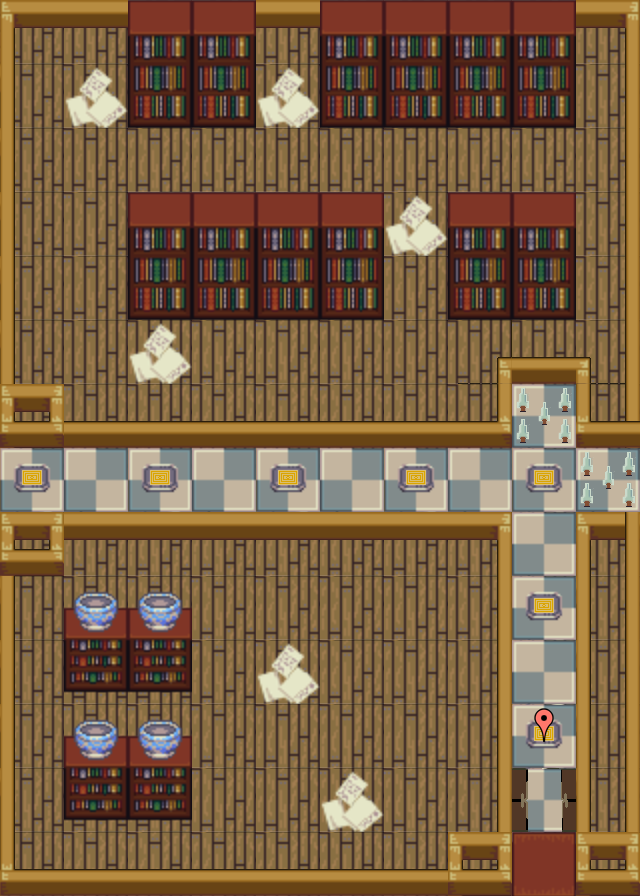
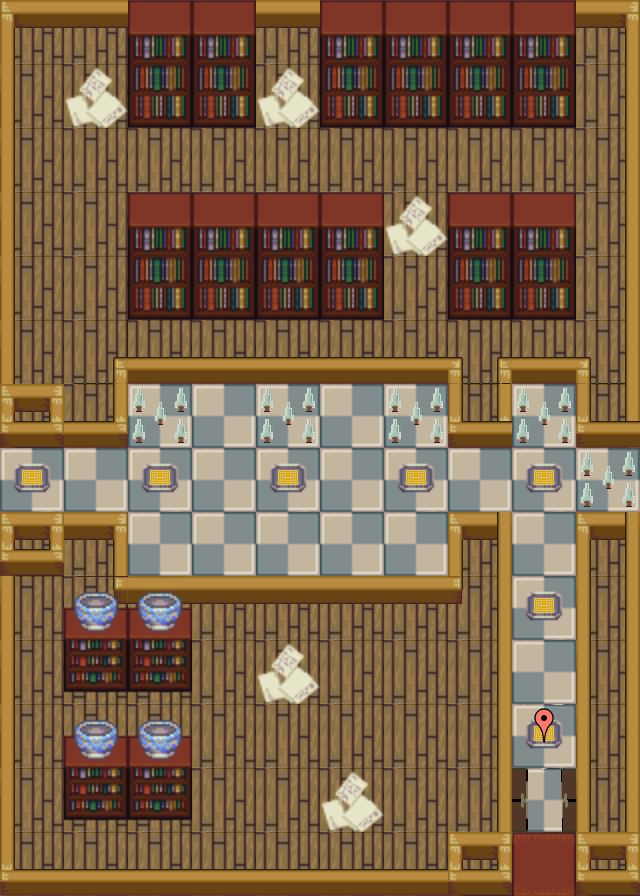
path fixes / bug fix
fix bug salas 5 e 12

diff --git a/control/gameController.js b/control/gameController.js
@@ -452,7 +452,7 @@ function toggleElements(){
         elements.optionsDisplay.classList.remove('hidden');
         elements.hpBar.classList.remove('hidden');
         elements.vidaBar.classList.remove('hidden');
-        elements.optionsMenuMapa.classList.add('hidden');
+        // elements.optionsMenuMapa.classList.add('hidden');
     }
     else{
         elements.canvas.classList.add('hidden');
@@ -464,7 +464,7 @@ function toggleElements(){
         elements.optionsDisplay.classList.add('hidden');
         elements.hpBar.classList.add('hidden');
         elements.vidaBar.classList.add('hidden');
-        elements.optionsMenuMapa.classList.remove('hidden');
+        // elements.optionsMenuMapa.classList.remove('hidden');
     }
     
     
@@ -556,10 +556,7 @@ elements.senhaText.addEventListener('click', function() {
         elements.senhaText.style.background = '#757c83'; 
         elements.senhaText.style.color = '#757c83'; 
 
-        
-
        
-
     }else{
 
         elements.senhaText.style.background = '#f0f8ff'; 
@@ -1909,6 +1906,11 @@ function avancarMapa05(mapLogic){
             hpRestante-=2;
  
         }
+
+        if(checkCol(colisoes.p3f5)){
+            resetMaps();
+            hpRestante--;
+        }
         
         if(posAtualFila < mapLogic.linha_comandos.length){      
             
@@ -1918,7 +1920,7 @@ function avancarMapa05(mapLogic){
                     avancarMapalDirecao(mapLogic, mapLogic.dir);   
                     break;
                 case "3":
-        
+
                     vxr = 0;
                     vxl = 0;
                     vy = 0;
@@ -2494,6 +2496,8 @@ function avancarMapa12(mapLogic){
                     case "3":
                         
                         if(checkCol(colisoes.o1f12)){
+
+                            console.log(mapLogic.cores_encontradas);
                       
                             if(mapLogic.cores_encontradas[0] == "a"){
                             
@@ -2539,6 +2543,7 @@ function avancarMapa12(mapLogic){
                     case "v":
                     case "a":
                         
+                        
                         if(mapLogic.quantPassosY == 4){
                             posAtualFila+=1;
                             
@@ -2550,8 +2555,8 @@ function avancarMapa12(mapLogic){
 
                         let posFila = posAtualFila;
                         posFila+=1;
-
-                        if(mapLogic.linha_comandos[posFila+=1] == "6"){
+                        
+                        if(mapLogic.linha_comandos[posFila] == "6"){
                             if(mapLogic.quantPassosX == 1){
                                 posAtualFila+=1;
                             }
@@ -2913,9 +2918,9 @@ function animar(){
         espinho.draw(elements.ctx);
     }
     // elements.ctx.fillStyle = 'black';
-    // let fase = colisoes.p1f13;
-    // let fase2 = colisoes.p2f13;
-    // let fase3 = colisoes.p3f13;
+    // let fase = colisoes.p1f5;
+    // let fase2 = colisoes.p2f5;
+    // let fase3 = colisoes.p3f5;
     // let fase4 = colisoes.p4f13;
     // let fase5 = colisoes.p5f8;
     // let fase6 = colisoes.p6f8;
@@ -2924,9 +2929,9 @@ function animar(){
     // let obj = colisoes.o1f13;
     // let obj2 = colisoes.o2f13;
     // let obj3 = colisoes.o3f13;
-    // elements.ctx.fillRect(fase.x, fase.y, 64, 64);
-    // elements.ctx.fillRect(fase2.x, fase2.y, 64, 64);
-    // elements.ctx.fillRect(fase3.x, fase3.y, 64, 64);
+    // elements.ctx.fillRect(fase.x, fase.y, fase.width, fase.height);
+    // elements.ctx.fillRect(fase2.x, fase2.y, fase2.width, fase2.height);
+    // elements.ctx.fillRect(fase3.x, fase3.y, fase3.width, fase3.height);
     // elements.ctx.fillRect(fase4.x, fase4.y, 64, 64);
     // elements.ctx.fillRect(fase5.x, fase5.y, 64, 64);
     // elements.ctx.fillRect(fase6.x, fase6.y, 64, 64);
@@ -3000,7 +3005,7 @@ function carregarFases(fase){
 
     }if(fase >= 8){
         
-        elements.checkOff11.src = "../model/src/checkOn.png";
+        elements.checkOff11.src = "./model/src/checkOn.png";
         elements.checkOff12.src = "../model/src/checkOn.png";
 
     }if(fase >=12){
@@ -3039,7 +3044,7 @@ function updateDb(){
 
         update = true;
         
-        var dataUpdateUrl = '/Scriptgame/model/php/update.php';
+        var dataUpdateUrl = '../model/php/update.php';
 
         let salvarFase = 0;
         if(currentMapa < mapaAtual){
@@ -3119,7 +3124,7 @@ function updateDbMorreu(){
     }
     
 
-    var dataUpdateUrl = '/Scriptgame/model/php/update.php';
+    var dataUpdateUrl = '../model/php/update.php';
 
     const data = {
 
@@ -3159,7 +3164,7 @@ function updateDbMorreu(){
 }
 
 async function fetchDados(){
-    var dataUrl = '/Scriptgame/model/php/read.php';
+    var dataUrl = '../model/php/read.php';
 
     let currentVidas = 0;
     let currentHp = 0;
@@ -3224,7 +3229,7 @@ fetchDados();
 
 async function buscarFaseDb(){
 
-    var dataUrl = '/Scriptgame/model/php/read_fases.php';
+    var dataUrl = '../model/php/read_fases.php';
     
 
     let id1 = 0;
@@ -3264,7 +3269,7 @@ async function buscarFaseDb(){
 
 function updateFaseNotas(id1, mundo1, fase1, likes1, dislikes1){
 
-    var dataUpdateUrl = '/Scriptgame/model/php/update_fases.php';
+    var dataUpdateUrl = '../model/php/update_fases.php';
 
     const data = {
 
@@ -3292,7 +3297,7 @@ function updateFaseNotas(id1, mundo1, fase1, likes1, dislikes1){
 }
 
 async function buscarUserFaseDb(){
-    var dataUrl = '/Scriptgame/model/php/read_userFases.php';
+    var dataUrl = '../model/php/read_userFases.php';
     
 
     let id1 = 0;
@@ -3396,7 +3401,7 @@ async function buscarUserFaseDb(){
 
 function updateUserFase(id1, id1_user, df1, df2, df3, df4, df5, df6, df7, df8, df9, df10, df11, df12, df13){
 
-    var dataUpdateUrl = '/Scriptgame/model/php/update_userFases.php';
+    var dataUpdateUrl = '../model/php/update_userFases.php';
 
     const data = {
 
@@ -3436,11 +3441,11 @@ function updateUserFase(id1, id1_user, df1, df2, df3, df4, df5, df6, df7, df8, d
 async function updateDificuldade(){
     
 
-    var dataUrl = '/Scriptgame/model/php/read_userFases.php';
+    var dataUrl = '../model/php/read_userFases.php';
     
-    var dataUrl1 = '/Scriptgame/model/php/read_fases.php';
+    var dataUrl1 = '../model/php/read_fases.php';
 
-    var dataUpdateUrl = '/Scriptgame/model/php/update_fases.php';
+    var dataUpdateUrl = '../model/php/update_fases.php';
     
 
     let id1 = 0;

diff --git a/control/startController.js b/control/startController.js
@@ -9,21 +9,12 @@ let user = new User("","","");
 
 let checouMensagem = false;
 
-elements.gameLogo.addEventListener('click', function() {
-    window.location.href = 'index.php';
-    
-});
-elements.buttonHome.addEventListener('click', function() {
-    window.location.href = 'index.php';
-    
-});
-
 elements.buttonLogin.addEventListener('click', function(){
-    window.location.href = './view/login.php';
+    window.location.href = '../view/login.php';
       
 });
 elements.buttonCadastro.addEventListener('click', function(){
-    window.location.href = './view/cadastro.php';
+    window.location.href = '../view/cadastro.php';
       
 })
 elements.mostrarNotas.addEventListener('click', function() {
@@ -55,7 +46,7 @@ elements.buttonJogar.addEventListener('click', function() {
            
             userObj = JSON.parse(userJson);
     
-            var dataUpdateUrl = '/Scriptgame/model/php/update.php';
+            var dataUpdateUrl = '../model/php/update.php';
     
             const data = {
         
@@ -82,7 +73,7 @@ elements.buttonJogar.addEventListener('click', function() {
                 console.error('Error:', error);
             });
         
-            location.replace('/Scriptgame/view/game.php');
+            location.replace('../view/game.php');
             
         } else {
             
@@ -99,7 +90,7 @@ elements.buttonJogar.addEventListener('click', function() {
 
 elements.buttonContinue.addEventListener('click', function() {
    
-    location.replace('/Scriptgame/view/game.php');
+    location.replace('../view/game.php');
         
      
 });

diff --git a/control/logica_mapas/mapa12.js b/control/logica_mapas/mapa12.js
@@ -27,6 +27,26 @@ export class mapa12{
 
         this.cores_encontradas = this.linha_comandos.filter(item => isNaN(item));
         
+
+        const cleanedArray = [];
+
+            // Process each item in the cores_encontradas array
+            for (let i = 0; i < this.cores_encontradas.length; i++) {
+                // Remove occurrences of the letter "e"
+                let cleanedItem = this.cores_encontradas[i].replace(/e/g, '');
+                
+                // Remove any blank spaces
+                cleanedItem = cleanedItem.replace(/\s+/g, '');
+                
+                // Add to the new array if it's not an empty string
+                if (cleanedItem !== '') {
+                    cleanedArray.push(cleanedItem);
+                }
+            }
+
+            // Assign the cleaned array to cores_encontradas
+            this.cores_encontradas = cleanedArray;
+        
         for (let i = 0; i < this.linha_comandos.length - 1; i++) {
             if (this.linha_comandos[i] === 'e' && this.linha_comandos[i + 1] === '6') {
                 this.vaiEsperar = true;

diff --git a/control/logica_mapas/mapaCol.js b/control/logica_mapas/mapaCol.js
@@ -18,7 +18,8 @@ export class mapaCol{
             this.p4f4 = {x: this.d*2, y: this.d*10, width: this.d*7, height: this.d*2};
 
             this.p1f5 = {x: this.d*10, y: this.d*5, width: this.d*1, height: this.d*4};
-            this.p2f5 = {x: this.d*5, y: this.d*4, width: this.d*5, height: this.d*2};
+            this.p2f5 = {x: this.d*1, y: this.d*4, width: this.d*8, height: this.d*2};
+            this.p3f5 = {x: this.d*1, y: this.d*9, width: this.d*6, height: this.d*2};
 
 
             this.p1f8 = {x: this.d*8, y: this.d*5, width: this.d, height: this.d};

diff --git a/control/loginController.js b/control/loginController.js
@@ -26,7 +26,7 @@ document.getElementById('loginForm').addEventListener('submit', function(event) 
 
 
 async function fetchDados(){
-    var dataUrl = '/Scriptgame/model/php/read.php';
+    var dataUrl = '../model/php/read.php';
 
     try {
         const response = await fetch(dataUrl);

diff --git a/control/avalController.js b/control/avalController.js
@@ -4,7 +4,7 @@ document.getElementById('voltarAval').addEventListener('click', function() {
 
 async function buscarFaseDb(){
 
-    var dataUrl = '/Scriptgame/model/php/read_fases.php';
+    var dataUrl = '../model/php/read_fases.php';
     
 
     let id1 = 0;

diff --git a/model/styles/game.css b/model/styles/game.css
@@ -740,7 +740,10 @@ input[type="radio"].velRadio:checked {
 
   color: #757c83;
   background-color: #757c83;
-
+  user-select: none; 
+  -webkit-user-select: none;
+  -moz-user-select: none; 
+  -ms-user-select: none; 
 }
 
 

diff --git a/model/blockly/blocks.js b/model/blockly/blocks.js
@@ -252,7 +252,7 @@ Blockly.common.defineBlocksWithJsonArray([
     "message0": "Esperar um turno",
     
     "previousStatement": null,
-    "nextStatement": null,
+    
     "colour": 300,
  },
 

diff --git a/view/game.php b/view/game.php
@@ -93,9 +93,7 @@
             <div id="gameHeader">
 
             </div>
-            <div id="optionsMenuMapa">
-                
-            </div>
+    
             <div id = "optionsMenu">
                 <div id="radioSpeed" class="hidden">
                     <p>&nbsp;&nbsp;&nbsp;Velocidade do personagem:</p>
